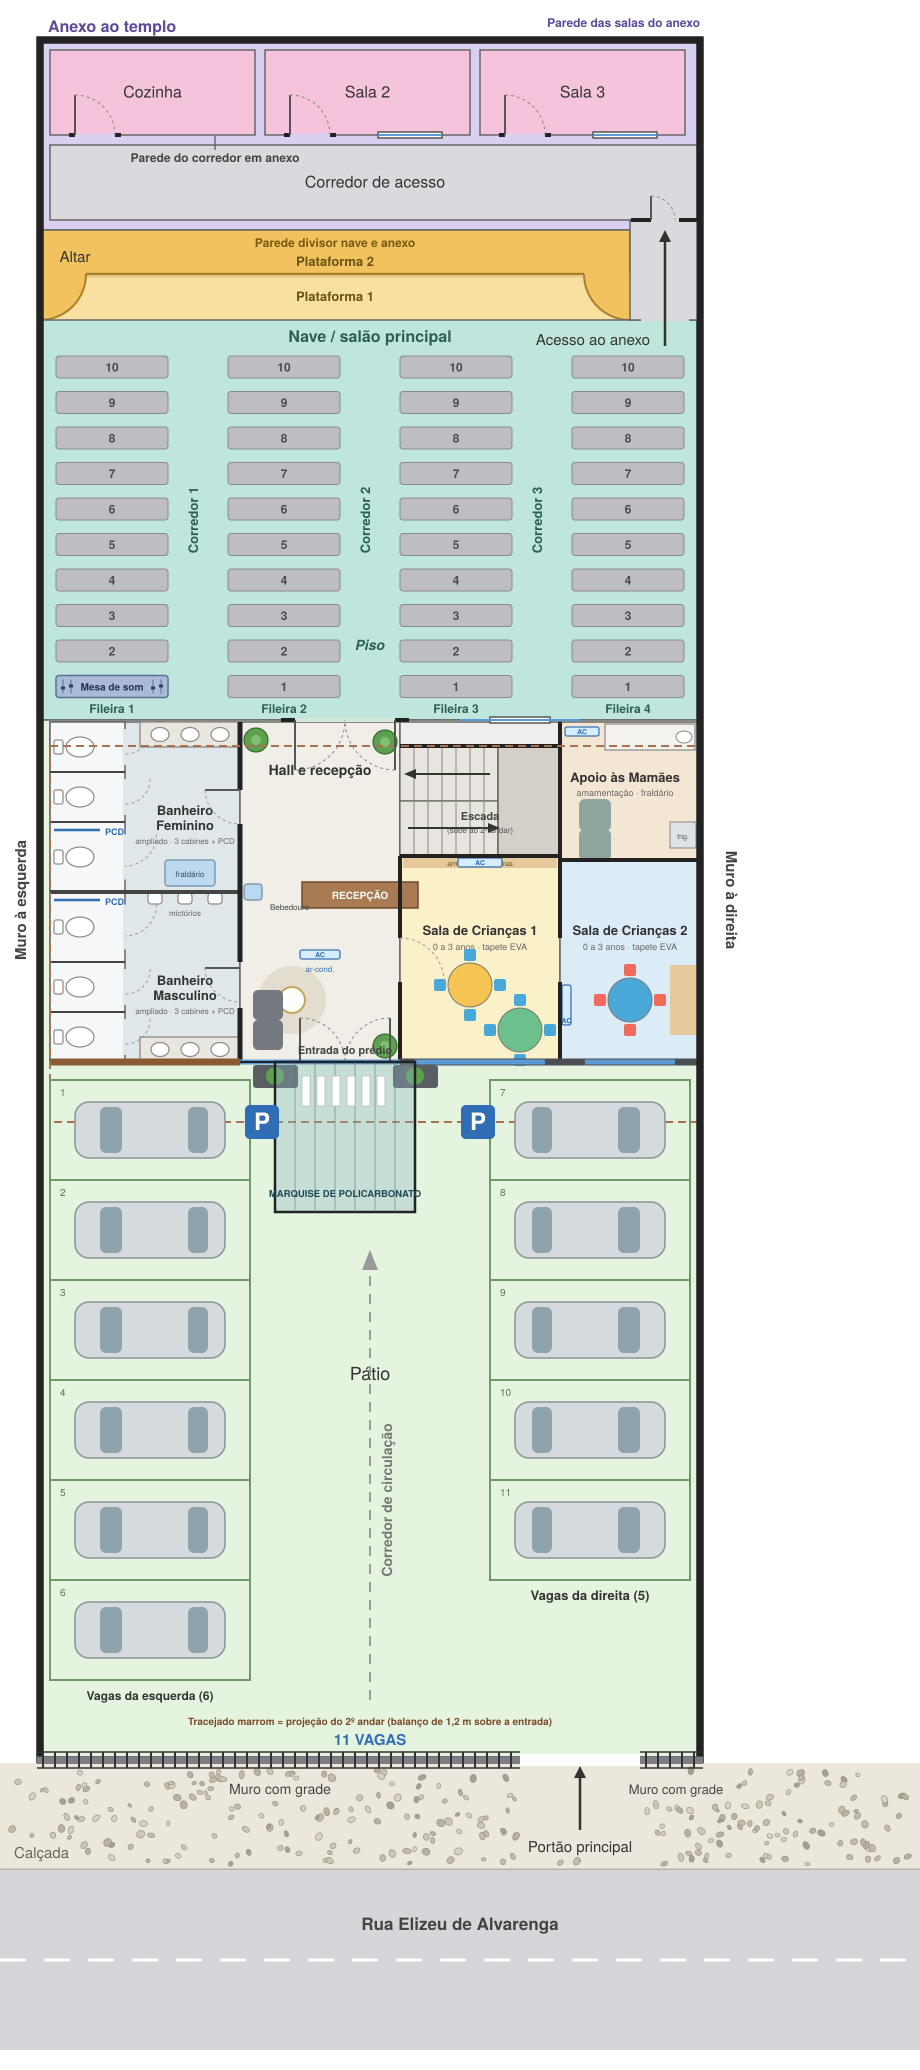
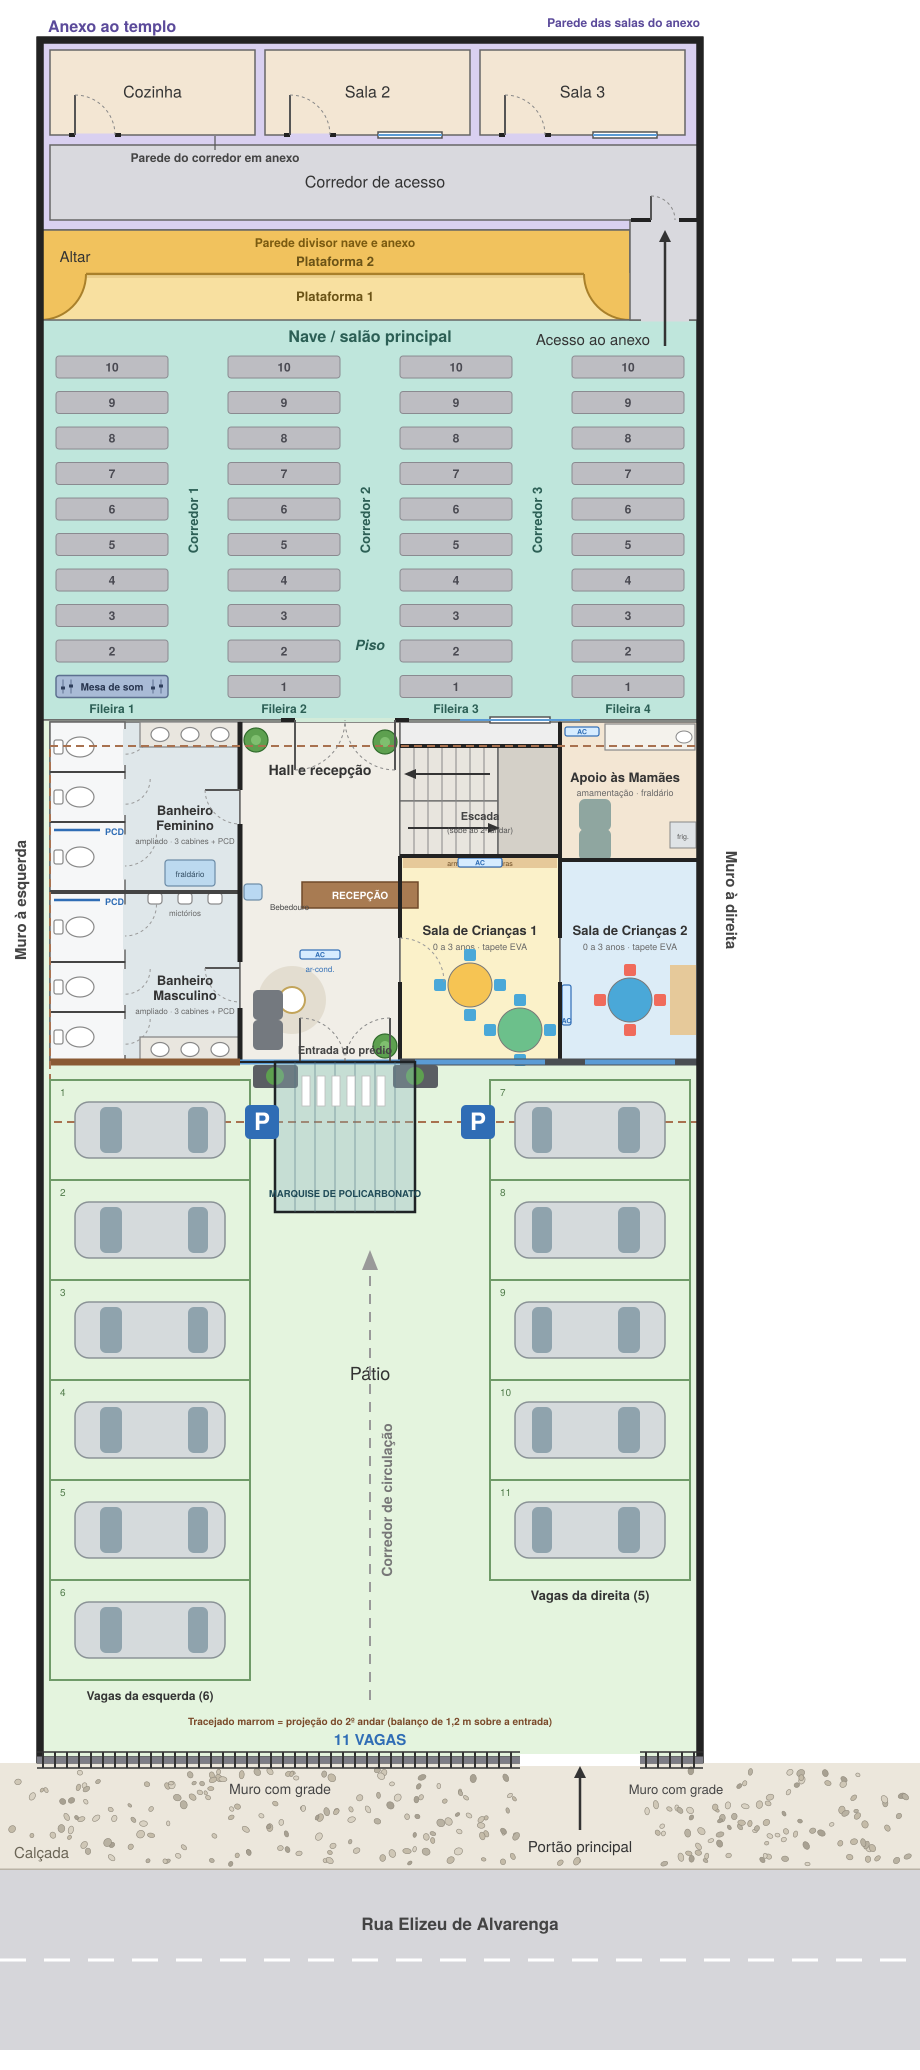
Igreja Atual e Maquete 1: piso claro no anexo
Claude-Session: https://claude.ai/code/session_015gh4tS64wXyJ2ghbw66cFX

Changed region(s): [[0.0304, 0.0, 0.7609, 0.0618]]

diff --git a/atual/maquete.html b/atual/maquete.html
@@ -119,7 +119,7 @@
   }
   var C = {
     wall: 0xf3efe6, wallIn: 0xe9e3d6, muro: 0xe6dfd0, trim: 0xb9b2a2,
-    anexo: 0xd9d0f0, salaAnexo: 0xf6c3dc, corr: 0xd9d9de, plat1: 0xd2d4d7, plat2: 0xd2d4d7, nave: 0xbfe6dc,
+    anexo: 0xd9d0f0, salaAnexo: 0xe8d9c0, corr: 0xd9d9de, plat1: 0xd2d4d7, plat2: 0xd2d4d7, nave: 0xbfe6dc,
     bath: 0xd9d9de, salaExt: 0xf4a38f, bebedouro: 0xb9d8f2, patio: 0xdfeedd, varanda: 0xf0d3bc,
     grass: 0xc9e0bd, sidewalk: 0xece7dc, street: 0x8e9299, line: 0x5f8f5a, roof: 0x8d9299, wood: 0x8b5e3c, slab: 0xb9b9c3,
     mesa: 0xa9bbd6, white: 0xffffff, grade: 0xffffff, azul: 0x3f78c4, azulClaro: 0x9cc8ee

diff --git a/projeto1/maquete.html b/projeto1/maquete.html
@@ -120,7 +120,7 @@
   }
   var C = {
     wall: 0xf3efe6, wallIn: 0xe9e3d6, muro: 0xe6dfd0, trim: 0xb9b2a2,
-    anexo: 0xd9d0f0, salaAnexo: 0xf6c3dc, corr: 0xd9d9de, plat1: 0xd2d4d7, plat2: 0xd2d4d7, nave: 0xbfe6dc,
+    anexo: 0xd9d0f0, salaAnexo: 0xe8d9c0, corr: 0xd9d9de, plat1: 0xd2d4d7, plat2: 0xd2d4d7, nave: 0xbfe6dc,
     bath: 0xd9d9de, salaExt: 0xf4a38f, bebedouro: 0xb9d8f2, patio: 0xdfeedd, varanda: 0xf0d3bc,
     grass: 0xc9e0bd, sidewalk: 0xece7dc, street: 0x8e9299, line: 0x5f8f5a, roof: 0x8d9299, wood: 0x8b5e3c, slab: 0xb9b9c3,
     mesa: 0xa9bbd6, white: 0xffffff, grade: 0xffffff, azul: 0x3f78c4, azulClaro: 0x9cc8ee
